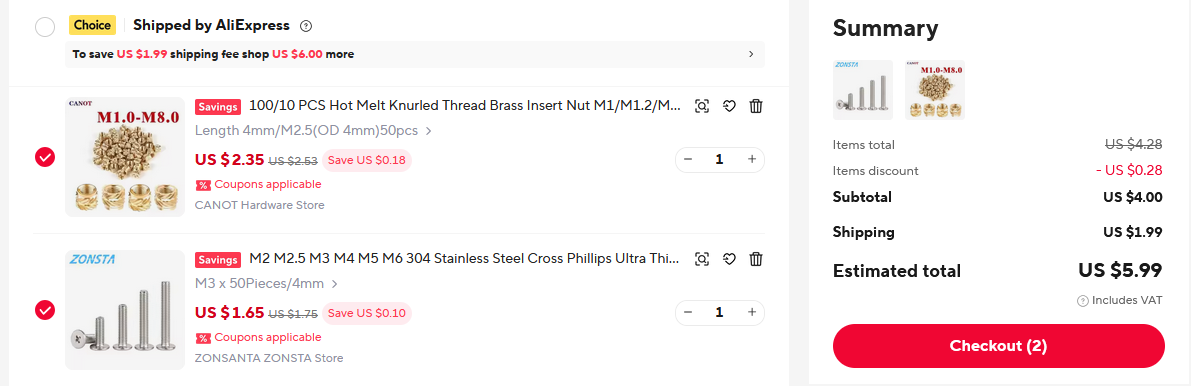
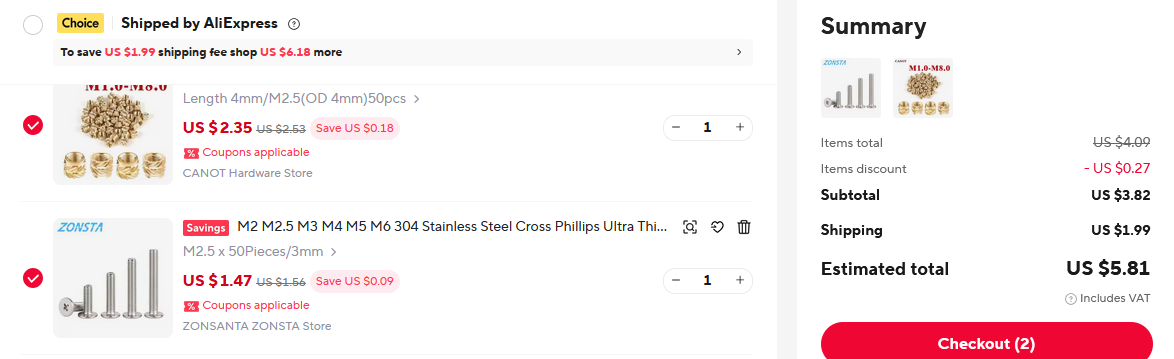
updated BOM file and README table, updated images

diff --git a/README.md b/README.md
@@ -48,23 +48,24 @@ Solder all the SMD components first, then the USB ports, insert and secure the h
 
 ![AE Cart](assets/BOM/BOM_ae.png)
 
-| LCSC#     | Customer #           | Quantity | Extended Price ($) | Product Link                                                                 |
-|-----------|----------------------|----------|--------------------|------------------------------------------------------------------------------|
-| C5137483  | C1,C2,C5,C6,C7,C8    | 100      | 0.58               | https://www.lcsc.com/product-detail/C5137483.html                           |
-| C72473    | C3,C4                | 20       | 0.4                | https://www.lcsc.com/product-detail/C72473.html                             |
-| C15155    | Q1,Q2                | 10       | 0.89               | https://www.lcsc.com/product-detail/C15155.html                             |
-| C3017855  | R1,R2                | 100      | 0.14               | https://www.lcsc.com/product-detail/C3017855.html                           |
-| C3016388  | R3,R4                | 100      | 0.1                | https://www.lcsc.com/product-detail/C3016388.html                           |
-| C2962378  | U1                   | 10       | 0.47               | https://www.lcsc.com/product-detail/C2962378.html                           |
-| C42400252 | U2                   | 10       | 0.48               | https://www.lcsc.com/product-detail/C42400252.html                          |
-| C192893   | U3                   | 5        | 1.16               | https://www.lcsc.com/product-detail/C192893.html                            |
-| C429954   | U4                   | 50       | 0.71               | https://www.lcsc.com/product-detail/C429954.html                            |
-| C404966   | USB1,USB2,USB3,USB4  | 20       | 0.93               | https://www.lcsc.com/product-detail/C404966.html                            |
-| C16197268 | X1                   | 10       | 0.55               | https://www.lcsc.com/product-detail/C16197268.html                          |
-| —         | Heatset insert       | 2        | 1.99               | https://www.aliexpress.com/item/1005007640664497.html                       |
-| —         | Screws               | 2        | 1.56               | https://www.aliexpress.com/item/1005003670389142.html                       |
-| —         | LCSC Fees (Shipping+Handling) | — | 10.54              | —                                                                            |
-| —         | PCB (incl shipping)  | —        | 4.8                | https://jlcpcb.com                                                          |
-| **Total** | —                    | —        | **25.30 USD**      | —                                                                            |
+| LCSC#     | Customer #                    | Quantity | Extended Price($) | Product Link                                                                                                   |
+| --------- | ----------------------------- | -------- | ----------------- | -------------------------------------------------------------------------------------------------------------- |
+| C5137483  | C1,C2,C5,C6,C7,C8             | 100      | 0.6               | [https://www.lcsc.com/product-detail/C5137483.html](https://www.lcsc.com/product-detail/C5137483.html)         |
+| C72473    | C3,C4                         | 20       | 0.43              | [https://www.lcsc.com/product-detail/C72473.html](https://www.lcsc.com/product-detail/C72473.html)             |
+| C15155    | Q1,Q2                         | 10       | 0.9               | [https://www.lcsc.com/product-detail/C15155.html](https://www.lcsc.com/product-detail/C15155.html)             |
+| C3017855  | R1,R2                         | 100      | 0.14              | [https://www.lcsc.com/product-detail/C3017855.html](https://www.lcsc.com/product-detail/C3017855.html)         |
+| C2907088  | R3,R4                         | 100      | 0.1               | [https://www.lcsc.com/product-detail/C2907088.html](https://www.lcsc.com/product-detail/C2907088.html)         |
+| C2962378  | U1                            | 10       | 0.47              | [https://www.lcsc.com/product-detail/C2962378.html](https://www.lcsc.com/product-detail/C2962378.html)         |
+| C42400252 | U2                            | 10       | 0.48              | [https://www.lcsc.com/product-detail/C42400252.html](https://www.lcsc.com/product-detail/C42400252.html)       |
+| C192893   | U3                            | 5        | 1.16              | [https://www.lcsc.com/product-detail/C192893.html](https://www.lcsc.com/product-detail/C192893.html)           |
+| C429954   | U4                            | 50       | 0.72              | [https://www.lcsc.com/product-detail/C429954.html](https://www.lcsc.com/product-detail/C429954.html)           |
+| C404966   | USB1,USB2,USB3,USB4           | 20       | 0.95              | [https://www.lcsc.com/product-detail/C404966.html](https://www.lcsc.com/product-detail/C404966.html)           |
+| C16197268 | X1                            | 10       | 0.55              | [https://www.lcsc.com/product-detail/C16197268.html](https://www.lcsc.com/product-detail/C16197268.html)       |
+|           | Heatset inserts (M2.5x4mm)    | 2        | 2.35              | [https://www.aliexpress.com/item/1005007640664497.html](https://www.aliexpress.com/item/1005007640664497.html) |
+|           | Screws (M2.5x3mm)             | 2        | 1.47              | [https://www.aliexpress.com/item/1005003670389142.html](https://www.aliexpress.com/item/1005003670389142.html) |
+|           | AliExpress Shipping           |          | 1.99              |                                                                                                                |
+|           | LCSC Fees (Handling+Shipping) |          | 12.97             |                                                                                                                |
+|           | PCB (Incl. shipping+VAT)      | 5        | 9.29              | [https://jlcpcb.com](https://jlcpcb.com)                                                                       |
+| Total     |                               |          | 34.57             |                                                                                                                |
 
 <img width="939" height="356" alt="blueprint_logo_centered" src="https://github.com/user-attachments/assets/f3029de2-d126-4f55-88a8-540c89e0984f" />
